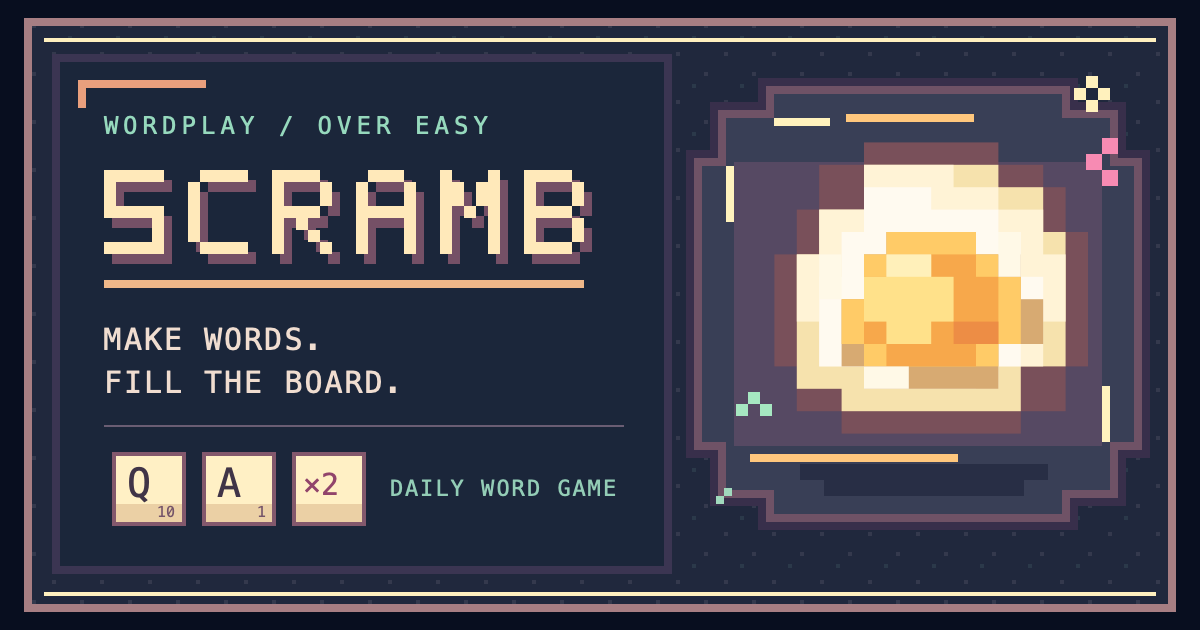
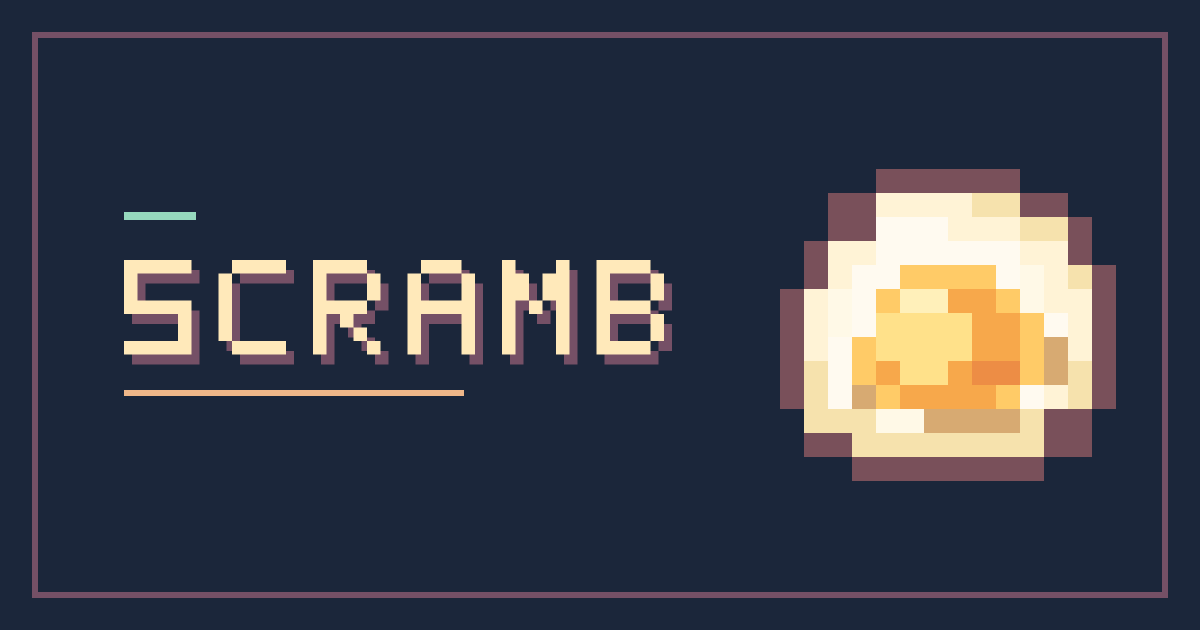
Simplify Scramb social card

diff --git a/scramble/index.html b/scramble/index.html
@@ -12,12 +12,12 @@
     <meta property="og:image" content="./scramb-preview.png">
     <meta property="og:image:width" content="1200">
     <meta property="og:image:height" content="630">
-    <meta property="og:image:alt" content="Retro pixel-art Scramb card with a sunny-side-up egg and letter tiles.">
+    <meta property="og:image:alt" content="Scramb in pixel lettering beside a sunny-side-up egg on a dark background.">
     <meta name="twitter:card" content="summary_large_image">
     <meta name="twitter:title" content="Scramb — Wordplay, over easy">
     <meta name="twitter:description" content="Trace paths, fill the gaps, and cook up your best score on the daily board.">
     <meta name="twitter:image" content="./scramb-preview.png">
-    <meta name="twitter:image:alt" content="Retro pixel-art Scramb card with a sunny-side-up egg and letter tiles.">
+    <meta name="twitter:image:alt" content="Scramb in pixel lettering beside a sunny-side-up egg on a dark background.">
     <title>Scramb — Daily word arcade</title>
     <link rel="icon" type="image/svg+xml" href="./egg.svg">
     <link rel="stylesheet" href="./style.css">
